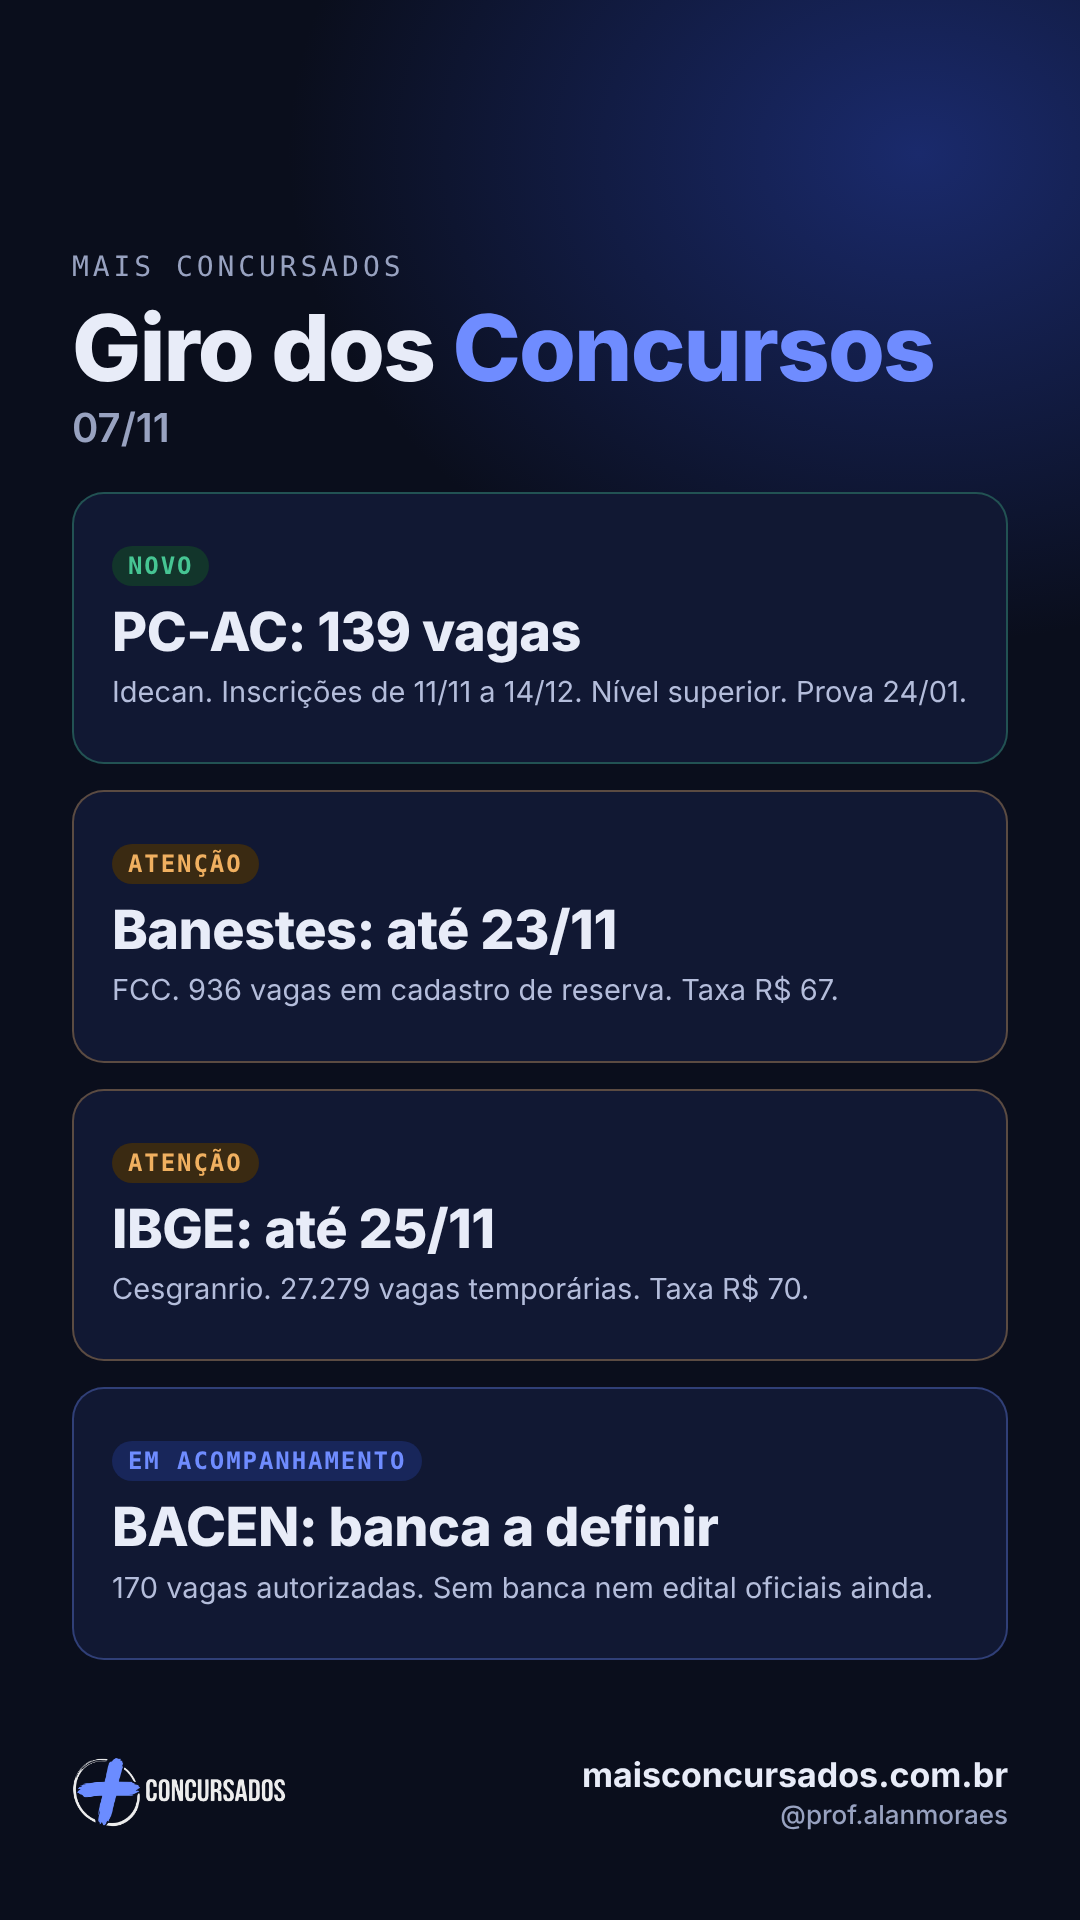
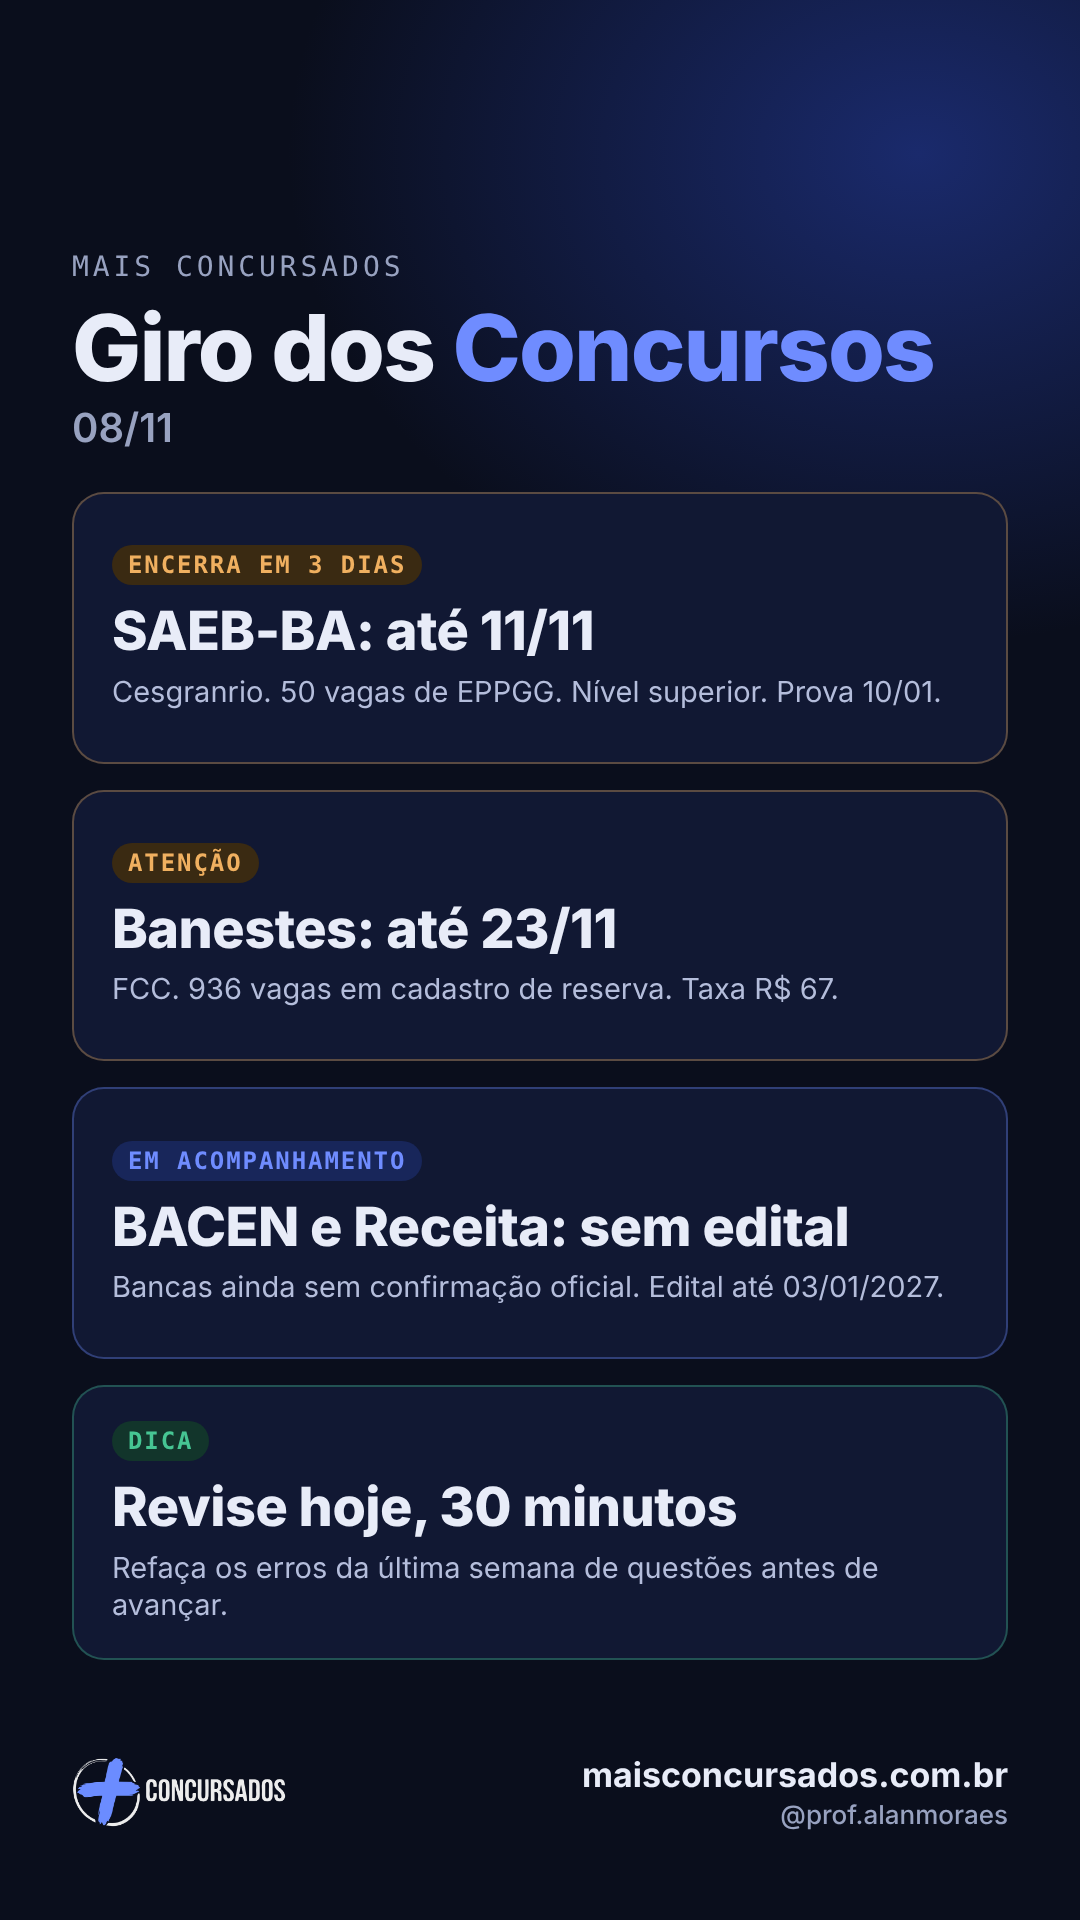
Giro dos Concursos 08/11: SAEB-BA encerra em 3 dias e arte de stories
Claude-Session: https://claude.ai/code/session_01A4P6MZ2VqdZWEvtKg6p92h

diff --git a/site/editais.html b/site/editais.html
@@ -48,7 +48,7 @@
 </main>
 <footer><div class="wrap"><div><h4>Mais Concursados</h4><p>Editais de concursos de todas as áreas, com destaque para os bancários, e estudo com método para quem quer a aprovação. Por Alan Moraes, bancário, professor e mentor para concursos.</p></div><div><h4>Navegue</h4><ul><li><a href="editais.html">Editais</a></li><li><a href="cursos.html">Cursos</a></li><li><a href="blog.html">Blog</a></li><li><a href="mentorias.html">Mentorias</a></li><li><a href="area-do-aluno.html">Área do aluno</a></li></ul></div><div><h4>Institucional</h4><ul><li><a href="sobre.html">Sobre o Alan</a></li><li><a href="contato.html">Contato</a></li><li><a href="privacidade.html">Política de privacidade</a></li></ul></div><p class="legal">© 2026 Mais Concursados · maisconcursados.com.br. As informações de editais vêm de portais de notícias e devem ser conferidas no edital oficial. O Mais Concursados não é banca organizadora nem órgão público.</p></div></footer>
 <script type="application/json" id="editais-data">{
- "atualizadoEm": "2026-11-07",
+ "atualizadoEm": "2026-11-08",
  "aviso": "Conferido em 13/10/2026 no texto dos editais e em pelo menos duas fontes independentes. Os sites das bancas bloquearam a leitura automática, por isso confirme sempre no edital oficial antes de se inscrever.",
  "editais": [
   {

diff --git a/site/index.html b/site/index.html
@@ -72,7 +72,7 @@
 </main>
 <footer><div class="wrap"><div><h4>Mais Concursados</h4><p>Editais de concursos de todas as áreas, com destaque para os bancários, e estudo com método para quem quer a aprovação. Por Alan Moraes, bancário, professor e mentor para concursos.</p></div><div><h4>Navegue</h4><ul><li><a href="editais.html">Editais</a></li><li><a href="cursos.html">Cursos</a></li><li><a href="blog.html">Blog</a></li><li><a href="mentorias.html">Mentorias</a></li><li><a href="area-do-aluno.html">Área do aluno</a></li></ul></div><div><h4>Institucional</h4><ul><li><a href="sobre.html">Sobre o Alan</a></li><li><a href="contato.html">Contato</a></li><li><a href="privacidade.html">Política de privacidade</a></li></ul></div><p class="legal">© 2026 Mais Concursados · maisconcursados.com.br. As informações de editais vêm de portais de notícias e devem ser conferidas no edital oficial. O Mais Concursados não é banca organizadora nem órgão público.</p></div></footer>
 <script type="application/json" id="editais-data">{
- "atualizadoEm": "2026-11-07",
+ "atualizadoEm": "2026-11-08",
  "aviso": "Conferido em 13/10/2026 no texto dos editais e em pelo menos duas fontes independentes. Os sites das bancas bloquearam a leitura automática, por isso confirme sempre no edital oficial antes de se inscrever.",
  "editais": [
   {
